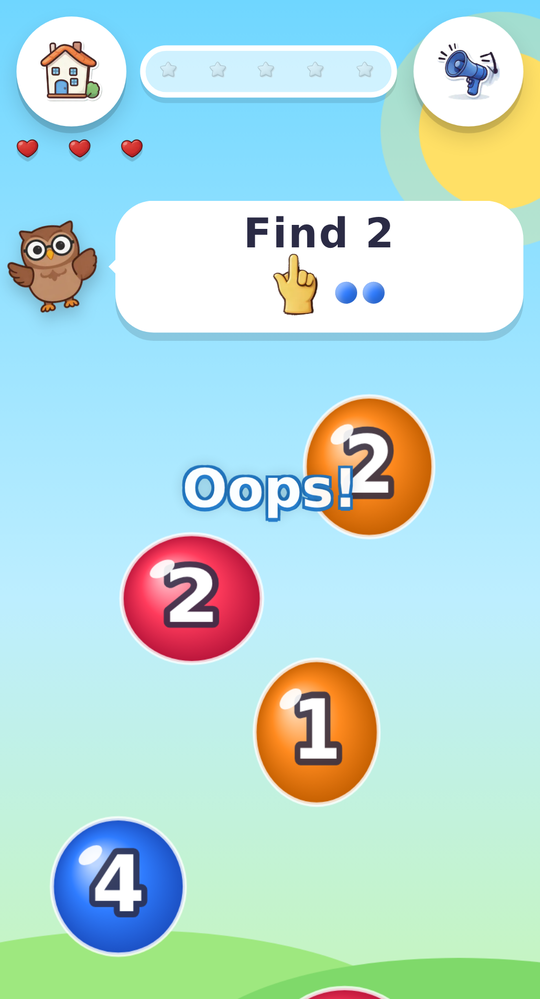
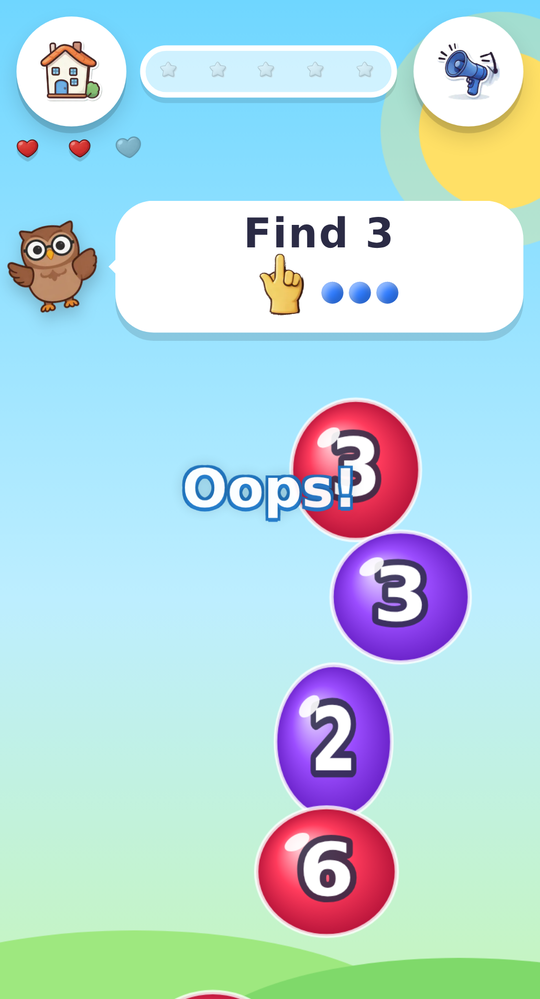
Miss three times and the round is lost: a wrong tap costs a heart in easy too
The owner asked for the literal rule after the release: every wrong tap is
a miss and costs one of the three hearts, in every difficulty; the third
miss loses the round. The owl shows the answer once (in easy Animals the
goal, with the right bubbles glowing), every bubble pops, the hearts refill
and the same round starts again. Nothing is recorded and easy still shows
no stars. Free play, which has no hearts, keeps the three-tries reveal.

- DIFFS: the per-question grace in easy is gone; easy gets teach:true for
  the Animals reveal on a lost round. onTap: a wrong tap goes through
  penalty() everywhere except free play.
- CLAUDE.md, README: the learning rule and the difficulty table say so.
- decisions/: the owner's revision recorded under the debate.
- test/lives.js rewritten for the per-miss rule; smoke, math and words
  updated (hearts 2, 1, then the reveal at 0 and a restart with 3).
- sw.js: cache bps-cache-v13. Screenshots of easy rounds refreshed.

diff --git a/test/lives.js b/test/lives.js
@@ -1,7 +1,7 @@
 // Usage: NODE_PATH=/opt/node22/lib/node_modules node lives.js <baseUrl> <outDir>
-// Three hearts on every level. In easy a heart goes out when a question is lost (the third wrong tap on it), the owl showing the
-// answer at that moment; the first two wrong taps are free. Losing the third heart shows the answer once, then the same round
-// restarts with full hearts and nothing recorded. Hard keeps a heart per wrong tap. Nothing on screen gives the answer away while playing.
+// Three lives on every level. In easy too, every wrong tap costs a heart and a right pop gives none back; the third miss shows
+// the answer once (the owl's bubble, the right bubbles glowing), then the same round restarts with full hearts and nothing recorded.
+// Nothing on screen gives the answer away while playing.
 const { chromium, devices } = require('playwright');
 const fs=require('fs'), path=require('path');
 const [baseUrl, outDir] = process.argv.slice(2);
@@ -70,65 +70,54 @@ const assert=(c,m)=>{ if(!c) throw new Error(`[${step}] ${m}`); };
     let s=await state(); assert(s.screen==='home'&&s.difficulty==='easy'&&s.mode==='math','easy math on home, got '+JSON.stringify({sc:s.screen,d:s.difficulty,m:s.mode}));
     assert(await page.evaluate(()=>getComputedStyle(document.querySelector('#row2')).display==='none'),'no hearts on the home screen'); noErrors();
 
-    // ---- easy math: a slip is free, the third wrong tap on one question costs a heart and shows the answer; the bar is kept
-    step='2-math'; s=await startRound(3); await assertHearts(3,'start'); assert(s.wrongTries===0,'no strikes at start'); await noGiveaway(s);
-    s=await tapRight(); assert(s.progress===1,'one right pop'); assert(s.wrongTries===0&&s.hearts===3,'right pop keeps hearts');
+    // ---- easy math: every miss costs a heart, the bar is kept; the third miss loses the round: one reveal, then the same round from zero
+    step='2-math'; s=await startRound(3); await assertHearts(3,'start'); await noGiveaway(s);
+    s=await tapRight(); assert(s.progress===1,'one right pop'); assert(s.hearts===3,'right pop keeps hearts');
     const mt0=s.problem.text, ma0=s.problem.answer;
-    for(let i=1;i<=2;i++){ s=await tapWrong(); assert(s.wrongTries===i,`strike ${i} counted, got ${s.wrongTries}`); assert(!s.reveal,'no reveal after wrong tap '+i); await assertHearts(3,'after wrong tap '+i);
-      assert(s.progress===1&&s.problem.text===mt0,'same question, progress kept'); await noGiveaway(s); }
+    for(let i=1;i<=2;i++){ s=await tapWrong(); assert(!s.reveal,'no reveal after miss '+i); await assertHearts(3-i,'after miss '+i);
+      assert(s.progress===1&&s.problem.text===mt0,'same question, bar kept'); await noGiveaway(s); }
     await page.screenshot({path:path.join(outDir,'lives-math-strikes.png')});
-    s=await tapWrong(); assert(s.reveal===true,'third wrong tap reveals'); await assertHearts(2,'third wrong tap');
+    s=await tapWrong(); assert(s.reveal===true,'the third miss reveals'); await assertHearts(0,'third miss');
     let txt=await say(); assert(txt===mt0.replace('?',String(ma0)),'reveal shows the equation with its answer: '+txt);
-    s=await glowSoon(); assert(s.progress===1,'progress kept through the reveal');
-    await sleep(400); await page.screenshot({path:path.join(outDir,'lives-math-reveal.png')});
-    // a fresh question follows (easy round 3 draws from so few numbers that the same equation can come up twice, so the cleared strikes are the signal)
-    s=await waitFor(x=>!x.reveal?x:null,'reveal over',5000); assert(s.problem&&Number.isInteger(s.problem.answer),'a question after the reveal'); assert(s.progress===1&&s.hearts===2&&s.wrongTries===0,'bar kept, one heart down, strikes cleared: '+JSON.stringify({p:s.progress,h:s.hearts,w:s.wrongTries}));
-    await noGiveaway(s); noErrors(); await goHome();
+    await glowSoon(); await sleep(400); await page.screenshot({path:path.join(outDir,'lives-math-reveal.png')});
+    s=await waitFor(x=>!x.reveal&&x.hearts===3?x:null,'round restarted',5000); assert(s.progress===0&&s.round===3&&s.screen==='play'&&s.wrongTries===0,'same round from zero: '+JSON.stringify({p:s.progress,r:s.round,sc:s.screen,w:s.wrongTries}));
+    assert(s.problem&&Number.isInteger(s.problem.answer),'a question after the restart'); await noGiveaway(s); noErrors(); await goHome();
     assert(await page.evaluate(()=>document.querySelectorAll('#book .slot .st img').length===0),'no stars shown in easy');
 
-    // ---- easy animals: the question is the goal since the last right pop; a right pop forgives earlier slips
+    // ---- easy animals: a miss costs a heart, a right pop does not give one back; the lost round shows the goal with the right bubbles glowing
     step='3-animals'; await page.evaluate(()=>window.__bps.setMode('safari')); s=await startRound(1); await assertHearts(3,'start'); await noGiveaway(s);
     const goalTxt=await say(); assert(/^Pop \d+ /.test(goalTxt),'goal text: '+goalTxt);
-    for(let i=1;i<=2;i++){ s=await tapWrong(); assert(s.wrongTries===i&&s.hearts===3&&!s.reveal,`strike ${i}: ${JSON.stringify({w:s.wrongTries,h:s.hearts,r:s.reveal})}`); }
-    s=await tapRight(); assert(s.progress===1,'right pop'); assert(s.wrongTries===0,'a right pop clears the strikes, got '+s.wrongTries); await assertHearts(3,'after right pop');
-    for(let i=1;i<=2;i++){ s=await tapWrong(); assert(s.wrongTries===i&&!s.reveal,`strike ${i} after the pop`); await assertHearts(3,'strike '+i+' after the pop'); await noGiveaway(s); }
-    s=await tapWrong(); assert(s.reveal===true,'third wrong since the last right pop reveals'); await assertHearts(2,'third strike');
+    s=await tapWrong(); assert(!s.reveal,'no reveal after a miss'); await assertHearts(2,'first miss');
+    s=await tapRight(); assert(s.progress===1,'right pop'); await assertHearts(2,'a right pop gives no heart back');
+    s=await tapWrong(); assert(!s.reveal,'no reveal after the second miss'); await assertHearts(1,'second miss'); await noGiveaway(s);
+    s=await tapWrong(); assert(s.reveal===true,'the third miss reveals'); await assertHearts(0,'third miss');
     s=await glowSoon(); assert(s.bubbles.every(b=>b.isTarget||!b.glow),'only targets glow');
-    txt=await say(); assert(txt===goalTxt,'the owl still shows the goal during the reveal: '+txt);
+    txt=await say(); assert(txt===goalTxt,'the owl shows the goal during the reveal: '+txt);
     assert(await page.evaluate(()=>!!document.querySelector('#speech .icons .gb.big')),'the goal bubble is shown');
     await sleep(400); await page.screenshot({path:path.join(outDir,'lives-animals-reveal.png')});
-    s=await waitFor(x=>!x.reveal?x:null,'reveal over',5000); assert(s.progress===1&&s.hearts===2&&s.wrongTries===0&&s.round===1&&s.screen==='play','play goes on with the bar kept: '+JSON.stringify({p:s.progress,h:s.hearts,w:s.wrongTries}));
-    assert(s.bubbles.every(b=>!b.glow),'glow cleared after the reveal'); txt=await say(); assert(txt===goalTxt,'goal back after the reveal'); noErrors(); await goHome();
+    s=await waitFor(x=>!x.reveal&&x.hearts===3?x:null,'round restarted',5000); assert(s.progress===0&&s.round===1&&s.screen==='play','same round from zero: '+JSON.stringify({p:s.progress,r:s.round,sc:s.screen}));
+    assert(s.bubbles.every(b=>!b.glow),'glow cleared after the restart'); txt=await say(); assert(txt===goalTxt,'goal back after the restart'); noErrors(); await goHome();
 
-    // ---- easy words: lose the three hearts; the last one shows the answer exactly once, then the same round restarts with nothing recorded
+    // ---- easy words: nothing given away while playing; the third miss shows the answer exactly once, then the same round restarts with nothing recorded
     step='4-words'; await page.evaluate(()=>{ window.__bps.setMode('words'); window.__bps.setLanguage('fr'); }); s=await startRound(1); await assertHearts(3,'start');
     assert(s.problem&&s.problem.kind==='pic','picture round '+JSON.stringify(s.problem)); const best0=JSON.stringify(s.best); await noGiveaway(s);
-    for(let q=0;q<3;q++){
-      s=await state(); const k0=s.problem.key, w0=s.problem.word; assert(s.hearts===3-q,`question ${q+1} starts with ${3-q} hearts, got ${s.hearts}`);
-      for(let i=1;i<=2;i++){ s=await tapWrong(); assert(s.wrongTries===i&&!s.reveal&&s.hearts===3-q,`q${q+1} strike ${i}: ${JSON.stringify({w:s.wrongTries,h:s.hearts,r:s.reveal})}`); assert(s.problem.key===k0,'same word'); await noGiveaway(s); }
-      if(q<2){
-        s=await tapWrong(); assert(s.reveal===true,'third strike reveals'); await assertHearts(2-q,'q'+(q+1)+' lost'); txt=await say(); assert(txt===w0,'reveal shows the word: '+txt);
-        assert(await page.evaluate(()=>!!document.querySelector('#speech .en')),'reveal shows the english word'); await glowSoon();
-        if(q===0){ await sleep(300); await page.screenshot({path:path.join(outDir,'lives-words-reveal.png')}); }
-        s=await waitFor(x=>!x.reveal?x:null,'reveal over',5000); assert(s.problem.key!==k0,'new word after a lost question'); assert(s.round===1&&s.screen==='play','still playing'); await noGiveaway(s);
-      } else {
-        // the last heart: exactly one reveal of 2.6 s, then every bubble pops and the round starts again with three hearts
-        const s0=await state(); const b=pickWrong(s0); assert(b,'a wrong bubble for the last strike'); await tap(b.x,b.y);
-        let reveals=0, was=false, glowed=false, sawZero=false, fin=null; const t0=Date.now();
-        while(Date.now()-t0<5000){ const x=await state(); if(x.reveal&&!was){ reveals++; if(reveals===1){ const h=await hud(); assert(h.lost===3,'all hearts drawn lost during the reveal: '+JSON.stringify(h)); txt=await say(); assert(txt===w0,'the last reveal shows the failed word: '+txt); } }
-          if(x.reveal){ assert(x.bubbles.every(b=>b.isTarget||!b.glow),'only targets glow'); if(x.bubbles.some(b=>b.isTarget&&b.glow)||!x.bubbles.some(b=>b.isTarget)) glowed=true; }
-          was=x.reveal; if(x.hearts===0) sawZero=true; if(reveals>0&&!x.reveal&&x.hearts===3){ fin=x; break; } await sleep(50); }
-        assert(reveals===1,'exactly one reveal on the last heart, got '+reveals); assert(sawZero,'hearts reached 0'); assert(glowed,'targets glow during the last reveal');
-        assert(fin,'round restarted within 5 s'); assert(fin.progress===0&&fin.round===1&&fin.screen==='play'&&fin.wrongTries===0,'same round from zero: '+JSON.stringify({p:fin.progress,r:fin.round,sc:fin.screen,w:fin.wrongTries}));
-        await assertHearts(3,'after the restart'); assert(JSON.stringify(fin.best)===best0,'nothing recorded for a lost round'); assert(fin.problem.key!==k0||true,'a question is set');
-        await sleep(600); await page.screenshot({path:path.join(outDir,'lives-words-restart.png')}); s=await state(); await noGiveaway(s);
-        assert(s.hearts===3&&s.reveal===false,'hearts never stick at zero');
-      }
-    }
+    const k0=s.problem.key, w0=s.problem.word;
+    for(let i=1;i<=2;i++){ s=await tapWrong(); assert(!s.reveal,'no reveal after miss '+i); await assertHearts(3-i,'miss '+i); assert(s.problem.key===k0,'same word'); await noGiveaway(s); }
+    { const s0=await state(); const b=pickWrong(s0); assert(b,'a wrong bubble for the last miss'); await tap(b.x,b.y);
+      let reveals=0, was=false, glowed=false, sawZero=false, fin=null; const t0=Date.now();
+      while(Date.now()-t0<5000){ const x=await state(); if(x.reveal&&!was){ reveals++; if(reveals===1){ const h=await hud(); assert(h.lost===3,'all hearts drawn lost during the reveal: '+JSON.stringify(h)); txt=await say(); assert(txt===w0,'the reveal shows the failed word: '+txt);
+            assert(await page.evaluate(()=>!!document.querySelector('#speech .en')),'reveal shows the english word'); await sleep(300); await page.screenshot({path:path.join(outDir,'lives-words-reveal.png')}); } }
+        if(x.reveal){ assert(x.bubbles.every(b=>b.isTarget||!b.glow),'only targets glow'); if(x.bubbles.some(b=>b.isTarget&&b.glow)||!x.bubbles.some(b=>b.isTarget)) glowed=true; }
+        was=x.reveal; if(x.hearts===0) sawZero=true; if(reveals>0&&!x.reveal&&x.hearts===3){ fin=x; break; } await sleep(50); }
+      assert(reveals===1,'exactly one reveal on the last heart, got '+reveals); assert(sawZero,'hearts reached 0'); assert(glowed,'targets glow during the reveal');
+      assert(fin,'round restarted within 5 s'); assert(fin.progress===0&&fin.round===1&&fin.screen==='play'&&fin.wrongTries===0,'same round from zero: '+JSON.stringify({p:fin.progress,r:fin.round,sc:fin.screen,w:fin.wrongTries}));
+      await assertHearts(3,'after the restart'); assert(JSON.stringify(fin.best)===best0,'nothing recorded for a lost round'); assert(fin.problem.key!==k0,'a new word after the restart');
+      await sleep(600); await page.screenshot({path:path.join(outDir,'lives-words-restart.png')}); s=await state(); await noGiveaway(s);
+      assert(s.hearts===3&&s.reveal===false,'hearts never stick at zero'); }
     noErrors(); await goHome(); s=await state(); assert(JSON.stringify(s.best)===best0,'sticker book untouched');
     assert(await page.evaluate(()=>document.querySelectorAll('#book .slot .st img').length===0),'no stars shown in easy');
 
-    // ---- hard is unchanged: three hearts, a single wrong tap costs one
+    // ---- hard: the same three hearts, a single wrong tap costs one
     step='5-hard'; await page.evaluate(()=>{ window.__bps.setDifficulty('hard'); window.__bps.setMode('safari'); }); s=await startRound(1); await assertHearts(3,'hard start');
     s=await tapWrong(); assert(s.hearts===2&&!s.reveal,'one wrong tap costs a heart in hard: '+JSON.stringify({h:s.hearts,r:s.reveal})); await assertHearts(2,'hard after a wrong tap');
     noErrors(); await goHome(); await page.evaluate(()=>window.__bps.setDifficulty('easy'));

diff --git a/index.html b/index.html
@@ -362,13 +362,12 @@ const WORDS_FREE = { free:true, words:true, kind:'any', set:WORDS[9].set, count:
 const wordOf = it => LANGS[lang][it.type][it.key].replace('·','');
 const MODES = ['safari','math','words'];
 /* difficulty: easy is the original game. hard/expert add bombs, ordered goals, speed, and (expert) a timer + colour-changing bubbles.
-   Every difficulty has three hearts. `grace` is how many wrong taps on one question the child gets before the question is lost:
-   in easy a slip of the finger is free and only the third wrong tap costs a heart (the owl then shows the answer);
-   in hard/expert every wrong tap costs one. */
+   Every difficulty has three lives: a wrong tap costs a heart, the third one loses the round (the owl shows the answer, then the
+   round starts over). `teach` (easy): a lost animals round also shows the goal and glows the right bubbles before the restart. */
 const DIFFS = {
-  easy:   { speed:1.00, size:1.00, extra:0, bombs:0,    hearts:3, grace:3, seqFrom:99, seq3From:99, timer:0,  shift:0,    ratio:0.45, minT:2, phrase:'Easy!' },
-  hard:   { speed:1.45, size:0.86, extra:3, bombs:0.18, hearts:3, grace:1, seqFrom:5,  seq3From:99, timer:0,  shift:0,    ratio:0.35, minT:2, phrase:'Hard! Watch out!' },
-  expert: { speed:1.85, size:0.76, extra:5, bombs:0.26, hearts:3, grace:1, seqFrom:3,  seq3From:7,  timer:22, shift:0.30, ratio:0.28, minT:1, phrase:'Expert! Be quick!' }
+  easy:   { speed:1.00, size:1.00, extra:0, bombs:0,    hearts:3, teach:true, seqFrom:99, seq3From:99, timer:0,  shift:0,    ratio:0.45, minT:2, phrase:'Easy!' },
+  hard:   { speed:1.45, size:0.86, extra:3, bombs:0.18, hearts:3, seqFrom:5,  seq3From:99, timer:0,  shift:0,    ratio:0.35, minT:2, phrase:'Hard! Watch out!' },
+  expert: { speed:1.85, size:0.76, extra:5, bombs:0.26, hearts:3, seqFrom:3,  seq3From:7,  timer:22, shift:0.30, ratio:0.28, minT:1, phrase:'Expert! Be quick!' }
 };
 const pick = a => a[(Math.random()*a.length)|0];
 const clamp = (v,a,b) => Math.max(a, Math.min(b, v));
@@ -843,8 +842,8 @@ function completeRound(){
 }
 function nextRound(){ nextIn=0; if(screen!=='celebrate') return; if(round>=10) goHome(true); else startPlay(round+1); }
 function freeFill(){ confettiBurst(false); sfx.fanfare(); toast(pick(['Wow!','Super!','Pop pop pop!']), 1200); progress=0; updateBar(); }
-/* a failure costs a heart (in hard/expert any wrong tap, bomb or timeout; in easy a lost question, see onTap); with no hearts
-   left the round simply starts over (never a game over). Free play has no hearts. why==='look' means the reveal speaks, not a toast */
+/* a miss costs a heart (a wrong tap in any difficulty, a bomb or a timeout in hard/expert); with no hearts left the round simply
+   starts over (never a game over). Free play has no hearts. why==='look' means the reveal speaks, not a toast */
 function penalty(why){
   mistakes++;
   if(D.hearts<=0 || cur.free) return;
@@ -878,9 +877,9 @@ function loseRound(){
     toast('Try again!', 1400);
     seedBubbles();
   };
-  // math and words always show the failed question; animals only where a lost question is itself the lesson (easy). In hard/expert
+  // math and words always show the failed question; animals only in easy (D.teach), where the lost round is the lesson. In hard/expert
   // the goal was in front of the child all along and the round was lost to speed, bombs or the clock, so it restarts straight away
-  if(cur.math||cur.words||D.grace>1) revealAnswer(2.6, restart); else restart();
+  if(cur.math||cur.words||D.teach) revealAnswer(2.6, restart); else restart();
 }
 
 /* ---------- input ---------- */
@@ -893,7 +892,7 @@ function onTap(x,y){
     bubbles.splice(bubbles.indexOf(best),1); addBoom(best); sfx.boom(); guideOops(); penalty('bomb'); return;
   }
   if(best.isTarget){
-    bubbles.splice(bubbles.indexOf(best),1); addPop(best); wrongTries=0;   // a right pop forgives the slips before it (animals keep the same goal, so nextQuestion will not do it)
+    bubbles.splice(bubbles.indexOf(best),1); addPop(best); wrongTries=0;   // free play counts wrong tries per question; a right pop starts a fresh count
     if(progress<goal){
       progress++; updateBar(); sfx.pop(progress/goal); if(D.timer>0) timeLeft=Math.min(D.timer, timeLeft+4);
       if(progress>=goal){ if(cur.free) freeFill(); else { unlockNow(); doneIn=0.65; } }   // sticker is safe the moment the bar fills
@@ -904,13 +903,11 @@ function onTap(x,y){
     } else sfx.pop(1);
   } else {
     best.wig=0.7; sfx.wrong(); guideOops(); wrongTries++;
-    const noHearts=D.hearts<=0||cur.free, grace=noHearts?3:D.grace;   // wrong taps on one question before it counts as lost
-    if(wrongTries<grace){ mistakes++; toast('Oops!', 600); }   // a slip: the bubble wiggles, no heart (easy and free play only)
-    else if(grace>1){   // the question is lost: one heart goes out as the owl shows the answer, then a new question (animals: the same goal, strikes cleared)
-      if(!noHearts && hearts<=1) penalty('look');   // the last heart: loseRound() shows the answer once and restarts the round
-      else { penalty('look'); toast('Look!', 1000); revealAnswer(2.4, ()=>{ nextQuestion(); renderGoal(); }); }
+    if(D.hearts<=0||cur.free){   // free play has no hearts: three wrong tries on one question count as a failure, the owl shows the answer
+      if(wrongTries>=3){ penalty('look'); toast('Look!', 1000); revealAnswer(2.4, ()=>{ nextQuestion(); renderGoal(); }); }
+      else { mistakes++; toast('Oops!', 600); }
     }
-    else penalty('wrong');   // hard/expert: every wrong tap costs a heart; the answer is shown only when the round is lost
+    else penalty('wrong');   // a miss costs a heart in every difficulty; the third one loses the round and the owl shows the answer
   }
 }
 canvas.addEventListener('pointerdown', e=>{ e.preventDefault(); onTap(e.clientX, e.clientY); });

diff --git a/test/words.js b/test/words.js
@@ -55,18 +55,18 @@ const assert=(c,m)=>{ if(!c) throw new Error(`[${step}] ${m}`); };
     assert(await page.evaluate(()=>!document.querySelector('#speech .en')),'no english word while playing');
     assert(await page.evaluate(()=>document.querySelector('#speech .icons .q')?.textContent==='?'),'question mark, no picture hint');
     assert(['LEÓN','MONO','RANA','ELEFANTE'].includes(s.problem.word),'spanish animal word '+s.problem.word);
-    // wrong taps do nothing until the third: then the word is lost, the answer is revealed (a learning moment), a heart goes out and a new word follows
+    // every wrong tap costs a heart; the third loses the round: the answer is revealed (a learning moment), then the round restarts with a new word
     assert(s.hearts===3,'easy starts with 3 hearts, got '+s.hearts);
     const k0=s.problem.key;
-    for(let i=0;i<2;i++){ const w=await waitFor(x=>x.bubbles.find(b=>!b.isTarget&&!b.bomb&&visible(b)),'wrong bubble'); await tap(w.x,w.y); await sleep(150); s=await state(); assert(s.progress===0&&!s.reveal&&s.hearts===3,'wrong tap '+(i+1)+': no progress, no reveal, no heart'); }
+    for(let i=0;i<2;i++){ const w=await waitFor(x=>x.bubbles.find(b=>!b.isTarget&&!b.bomb&&visible(b)),'wrong bubble'); await tap(w.x,w.y); await sleep(150); s=await state(); assert(s.progress===0&&!s.reveal&&s.hearts===2-i,'wrong tap '+(i+1)+': no progress, no reveal, one heart down'); }
     await page.screenshot({path:path.join(outDir,'words-pic.png')});
     const w3=await waitFor(x=>x.bubbles.find(b=>!b.isTarget&&!b.bomb&&visible(b)),'wrong bubble'); await tap(w3.x,w3.y); await sleep(150); s=await state();
-    assert(s.reveal===true,'third wrong tap reveals'); assert(s.hearts===2,'the lost word costs a heart, hearts='+s.hearts); txt=await say(); assert(txt===s.problem.word,'reveal shows the word');
+    assert(s.reveal===true,'third wrong tap reveals'); assert(s.hearts===0,'the third miss empties the hearts, hearts='+s.hearts); txt=await say(); assert(txt===s.problem.word,'reveal shows the word');
     const en=await page.evaluate(()=>document.querySelector('#speech .en').textContent); assert(en===s.problem.en.toUpperCase(),'reveal shows the english word: '+en);
     assert(await page.evaluate(()=>!!document.querySelector('#speech .icons .gb img')),'reveal shows the picture');
     assert(s.bubbles.some(b=>b.isTarget&&b.glow),'right bubbles glow during the reveal');
     await page.screenshot({path:path.join(outDir,'words-reveal.png')});
-    await waitFor(x=>!x.reveal,'reveal over',5000); s=await state(); assert(s.problem.key!==k0,'new word after the reveal'); assert(s.progress===0,'no progress from the reveal');
+    await waitFor(x=>!x.reveal,'reveal over',5000); s=await state(); assert(s.problem.key!==k0,'new word after the reveal'); assert(s.progress===0,'no progress from the reveal'); assert(s.hearts===3,'round restarted with three hearts');
     let ch=await playRound(1,'pic'); assert(ch>=2,'word changes after correct pops: '+ch); s=await state(); assert(s.best.easy[1]===3,'r1 done');
     await sleep(900); await page.screenshot({path:path.join(outDir,'words-celebrate.png')}); await tapEl('[data-testid="home"]'); await sleep(200);
 

diff --git a/test/math.js b/test/math.js
@@ -56,13 +56,13 @@ const assert=(c,m)=>{ if(!c) throw new Error(`[${step}] ${m}`); };
     await sleep(900); await page.screenshot({path:path.join(outDir,'math-celebrate.png')}); await tapEl('[data-testid="home"]'); await sleep(200);
 
     step='3-add'; await page.evaluate(()=>window.__bps.startRound(3)); await sleep(300); s=await state(); assert(s.problem.kind==='add','add kind');
-    // three wrong taps on one question lose it: the answer is revealed and one of the three hearts goes out, then a new question comes
+    // every wrong tap costs a heart; the third loses the round: the answer is revealed, then the round restarts with three hearts and a new question
     assert(s.hearts===3,'easy starts with 3 hearts, got '+s.hearts);
     { const t0=s.problem.text, a0=s.problem.answer;
-      for(let i=0;i<3;i++){ const w=await waitFor(x=>x.bubbles.find(b=>!b.isTarget&&!b.bomb&&visible(b)),'wrong bubble'); await tap(w.x,w.y); await sleep(150); if(i<2){ s=await state(); assert(s.hearts===3&&!s.reveal,'wrong tap '+(i+1)+' is free'); } }
-      s=await state(); assert(s.reveal===true,'third wrong tap reveals'); assert(s.hearts===2,'the lost question costs a heart, hearts='+s.hearts); const rt=await page.evaluate(()=>document.querySelector('#speech .say').textContent);
+      for(let i=0;i<3;i++){ const w=await waitFor(x=>x.bubbles.find(b=>!b.isTarget&&!b.bomb&&visible(b)),'wrong bubble'); await tap(w.x,w.y); await sleep(150); if(i<2){ s=await state(); assert(s.hearts===2-i&&!s.reveal,'wrong tap '+(i+1)+' costs a heart, hearts='+s.hearts); } }
+      s=await state(); assert(s.reveal===true,'third wrong tap reveals'); assert(s.hearts===0,'the third miss empties the hearts, hearts='+s.hearts); const rt=await page.evaluate(()=>document.querySelector('#speech .say').textContent);
       assert(rt===t0.replace('?',String(a0)),'reveal shows the equation with its answer: '+rt); await page.screenshot({path:path.join(outDir,'math-reveal.png')});
-      await waitFor(x=>!x.reveal,'reveal over',5000); s=await state(); assert(s.progress===0,'no progress from the reveal'); }
+      await waitFor(x=>!x.reveal,'reveal over',5000); s=await state(); assert(s.progress===0,'no progress from the reveal'); assert(s.hearts===3&&s.round===3,'round restarted with three hearts'); }
     ch=await playRound(3,'math-add.png'); assert(ch>=2,'add changes '+ch); await tapEl('[data-testid="home"]'); await sleep(200);
     step='4-sub'; await page.evaluate(()=>window.__bps.startRound(5)); await sleep(300); s=await state(); assert(s.problem.kind==='sub','sub kind'); await playRound(5); await tapEl('[data-testid="home"]'); await sleep(200);
     step='5-miss'; await page.evaluate(()=>window.__bps.startRound(8)); await sleep(300); s=await state(); assert(s.problem.kind==='miss','miss kind'); await playRound(8,'math-missing.png'); await tapEl('[data-testid="home"]'); await sleep(200);

diff --git a/test/smoke.js b/test/smoke.js
@@ -57,7 +57,7 @@ const sleep = (ms) => new Promise((r) => setTimeout(r, ms));
     noErrors();
 
     step = '4-wrong-tap';
-    // easy has three hearts too, but a slip of the finger costs nothing: no progress, no heart (only the third wrong tap on one goal does)
+    // easy has three lives too: a wrong tap costs a heart but never progress
     assert(st.hearts === 3, 'easy starts with 3 hearts, got ' + st.hearts);
     assert(await page.evaluate(() => document.querySelectorAll('#hearts .hp').length === 3 && getComputedStyle(document.querySelector('#row2')).display === 'flex'), 'three hearts visible in easy');
     let wrong = null;
@@ -68,8 +68,8 @@ const sleep = (ms) => new Promise((r) => setTimeout(r, ms));
     await sleep(150);
     st = await state();
     assert(st.progress === before, `progress changed on wrong tap: ${before} -> ${st.progress}`);
-    assert(st.hearts === 3 && !st.reveal, `a first wrong tap in easy cost a heart: hearts=${st.hearts} reveal=${st.reveal}`);
-    assert(await page.evaluate(() => document.querySelectorAll('#hearts .hp.lost').length === 0), 'no heart drawn lost after one slip');
+    assert(st.hearts === 2 && !st.reveal, `a wrong tap in easy costs one heart: hearts=${st.hearts} reveal=${st.reveal}`);
+    assert(await page.evaluate(() => document.querySelectorAll('#hearts .hp.lost').length === 1), 'one heart drawn lost after a miss');
     noErrors();
 
     async function completeRound(expectedRound) {

diff --git a/sw.js b/sw.js
@@ -1,5 +1,5 @@
 /* Bubble Pop Safari - cache-first service worker */
-const CACHE = 'bps-cache-v12';
+const CACHE = 'bps-cache-v13';
 const FILES = ['./', './index.html', './manifest.webmanifest', './icon-192.png', './icon-512.png',
   './art/lion.webp', './art/monkey.webp', './art/elephant.webp', './art/panda.webp', './art/tiger.webp', './art/frog.webp',
   './art/koala.webp', './art/zebra.webp', './art/giraffe.webp', './art/hippo.webp', './art/owl.webp', './art/bomb.webp',

diff --git a/README.md b/README.md
@@ -14,17 +14,17 @@ Three games, picked with the three buttons under the title:
 
 Each mode keeps its own sticker book and stars.
 
-**The learning rule.** The game never shows the answer while the child is still trying: no hints, no translations, no name tags on the bubbles. The answer appears only after a failure, so a mistake becomes a lesson: when a question is lost (three wrong tries on it, in easy and free play) or when the hearts run out, the owl's bubble shows the full answer (the word with its picture and English meaning, the equation with its result, or the animals goal with its bubble), the right bubbles glow for a couple of seconds, and then play goes on. This applies to every mode.
+**The learning rule.** The game never shows the answer while the child is still trying: no hints, no translations, no name tags on the bubbles. The answer appears only after a failure, so a mistake becomes a lesson: when the three hearts run out (or, in free play, after three wrong tries on one question), the owl's bubble shows the full answer (the word with its picture and English meaning, the equation with its result, or the animals goal with its bubble), the right bubbles glow for a couple of seconds, and then play goes on. This applies to every mode.
 
 Three difficulties, picked with the three buttons under Play:
 
 | | Mode | What changes |
 | --- | --- | --- |
-| 🐣 | Easy | The gentle original, with three hearts: a wrong tap only wiggles, and a heart goes out only when a question is lost (the third wrong tap on the same question, or in Animals since the last right pop), at the very moment the owl shows the answer. No timers, no bombs, no stars recorded. |
+| 🐣 | Easy | The gentle original, with three lives: a wrong tap wiggles the bubble and costs a heart; the third miss shows the answer and restarts the round. No timers, no bombs, no stars recorded. |
 | 🔥 | Hard | Faster, smaller and more bubbles. Three hearts: a wrong tap or a bomb costs one. Bomb bubbles to avoid. From round 5 the owl asks for two things in turn (a green bubble, then a pink one). |
 | ⚡ | Expert | Faster still. A timer bar that refills a little with every good pop; when it runs out you lose a heart. Some bubbles change colour every second, so they become the target only for a moment. Ordered goals from round 3, three-step goals from round 7. |
 
-Every level, in every difficulty, is played with three lives. Losing all three hearts shows the answer once and just restarts the round ("Try again!"); there is never a game over, and nothing about hearts is kept. Every round in hard and expert earns one to three stars (no mistakes = three), shown on the sticker book, and each difficulty keeps its own progress while the stickers are shared.
+Every level, in every difficulty, is played with three lives: miss three times and you are dead, which just means the owl shows the answer once and the round starts again ("Try again!"). There is never a game over, and nothing about hearts is kept. Every round in hard and expert earns one to three stars (no mistakes = three), shown on the sticker book, and each difficulty keeps its own progress while the stickers are shared.
 
 All the art is custom, generated with Higgsfield and cut out into small webp files in `art/`: the ten animals, the owl guide, the bomb, and every interface icon (play arrow, house, speaker, stars, hearts, pointing hand, trophy, chick, flame, lightning; the speech-bubble icon of the words game is drawn with a small script). No emoji are used except as a fallback while an image is still loading.
 
@@ -73,7 +73,7 @@ ngrok http 8080                  # terminal 2, copy the https URL
 | `.nojekyll` | Tells GitHub Pages to publish the files as they are. |
 | `serve.sh` | One‑command local server + ngrok tunnel + QR code. |
 | `test/smoke.js` | Playwright playthrough test (easy mode) used during development. |
-| `test/lives.js` | Playwright test for the three hearts in easy, all modes: slips cost nothing, the third wrong tap on a question costs a heart and reveals the answer, a right pop forgives earlier slips in Animals, losing the last heart reveals once and restarts the round, nothing given away during play. |
+| `test/lives.js` | Playwright test for the three lives in easy, all modes: every wrong tap costs a heart, a right pop does not give one back, the third miss reveals the answer exactly once and restarts the round with nothing recorded, nothing given away during play. |
 | `test/hard.js` | Playwright test for hard and expert mode: hearts, bombs, restart, stars, ordered goals, timer, colour shifts. |
 | `test/math.js` | Playwright test for math mode: every round kind, answers checked, wrong taps, separate progress, hard mode with hearts and bombs. |
 | `test/words.js` | Playwright test for words mode: language picker, picture and color rounds, reverse rounds, no answer on screen while playing, the reveal after three wrong tries and after a lost round, separate progress, expert. |
@@ -102,6 +102,6 @@ python3 -m http.server 8080
 NODE_PATH=/path/to/node_modules node test/smoke.js http://127.0.0.1:8080 /tmp/out "Pixel 5"
 ```
 
-`test/smoke.js` needs Playwright. It plays two rounds, checks a wrong tap costs neither progress nor a heart, reloads to check the stickers and mute setting persisted, and fails on any page error or external request. `test/hard.js` (same arguments minus the device) switches to hard, loses hearts to a wrong tap and a bomb, checks the round restarts, finishes round 1 with one star, plays an ordered round, then plays expert round 7 with the timer and colour-shifting bubbles, and measures the frame rate on expert round 10. `test/lives.js` plays easy in all three modes and checks the hearts: slips, lost questions, the reveal, the restart.
+`test/smoke.js` needs Playwright. It plays two rounds, checks a wrong tap costs a heart but no progress, reloads to check the stickers and mute setting persisted, and fails on any page error or external request. `test/hard.js` (same arguments minus the device) switches to hard, loses hearts to a wrong tap and a bomb, checks the round restarts, finishes round 1 with one star, plays an ordered round, then plays expert round 7 with the timer and colour-shifting bubbles, and measures the frame rate on expert round 10. `test/lives.js` plays easy in all three modes and checks the hearts: a heart per miss, the reveal on the third, the restart.
 
 The test hook `window.__bps` exposes `state()`, `startGame()`, `startRound(n)`, `setDifficulty('easy'|'hard'|'expert')`, `setMode('safari'|'math'|'words')`, `setLanguage('fr'|'es'|'it'|'de')` and `resetProgress()`.

diff --git a/CLAUDE.md b/CLAUDE.md
@@ -14,14 +14,13 @@ it does not belong here.
    no name tag on the bubble that matches the question, no highlighted "right" bubble, no hint that
    appears after a few seconds. The child has to think, remember, count, or guess.
 2. **Reveal the answer only after a failure, so the child can learn from it.** A failure is:
-   - losing a question: three wrong tries on the same question (easy, free play; in Animals "the same
-     question" is the goal since the last right pop). In easy this also costs one of the three hearts:
-     a heart goes when the owl shows you the answer, never for a single slip of the finger; or
-   - losing the round (all hearts gone: in hard or expert a wrong tap, a bomb or a timeout costs a heart).
+   - losing the round: every level in every difficulty has three lives, a wrong tap (in hard or expert also
+     a bomb or a timeout) costs a heart, and the third miss is dead; or
+   - in free play, which has no hearts, three wrong tries on the same question.
    At that moment the owl's bubble shows the full answer (the word with its picture and English meaning,
    the equation with its result, the animals goal with its bubble), the correct bubbles glow, taps are
-   ignored for a couple of seconds, and then play continues (a new question with the bar kept, or, with
-   no hearts left, the same round restarts with full hearts and nothing recorded).
+   ignored for a couple of seconds, and then play continues (the same round restarts with full hearts and
+   nothing recorded; in free play, a new question).
 3. **A correct answer may be celebrated.** After a right pop it is fine to show the word or number that
    was just popped; that is reinforcement, not a giveaway.
 4. Any new mode (letters, shapes, another language, anything) follows the same three points. Put the
@@ -38,10 +37,10 @@ it does not belong here.
 - **Custom art only.** All characters and interface icons are generated with Higgsfield and cut out into
   small webp files in `art/` (208px). Emoji are used only as a fallback while an image loads. New art goes
   through the same pipeline and into the service worker file list.
-- **Three difficulties, same rounds, three hearts each.** Easy = the gentle original: a heart is lost only
-  when a question is lost (three wrong taps on it), and easy never records stars. Hard/expert add speed,
-  a heart per wrong tap, bombs, ordered goals, a timer, colour-shifting bubbles. A difficulty must never
-  remove learning, only add challenge.
+- **Three difficulties, same rounds, three lives each.** Easy = the gentle original plus the three hearts
+  (a wrong tap costs one, the third restarts the round); easy never records stars. Hard/expert add speed,
+  bombs, ordered goals, a timer, colour-shifting bubbles. A difficulty must never remove learning, only add
+  challenge.
 - **Each mode keeps its own stickers and stars** (save format `bps.v3`, migrate older formats, never
   wipe a child's progress).
 - **Music and sounds are generated with Web Audio.** No audio files. The sound button mutes everything.

diff --git a/decisions/2026-09-13-hearts-every-level.md b/decisions/2026-09-13-hearts-every-level.md
@@ -85,3 +85,10 @@ Acceptance criteria (the builder is held to these):
 The calm card at zero hearts (the reveal on a still screen, hearts refilling one by one, tap or auto-restart) is the
 runner-up every seat but the engineer wants; it is an S-to-M slice now that the per-question rule exists, if its test
 budget (hard.js step 4, the 6 s waits) is planned for.
+
+## Revised the same day, by the owner
+After the release the owner asked for the literal rule ("if you miss three times you're dead and lose a life"): in easy
+too, every wrong tap costs a heart and the third miss loses the round. Shipped as asked: the three-tap grace per question
+in easy is gone (free play, which has no hearts, keeps the three-tries reveal). A lost easy Animals round still shows the
+goal with the right bubbles glowing before the restart; hard and expert are unchanged; easy still records no stars. The
+parent's and teacher's objections to a heart per tap in easy stand in the record above as the risk to watch for.
